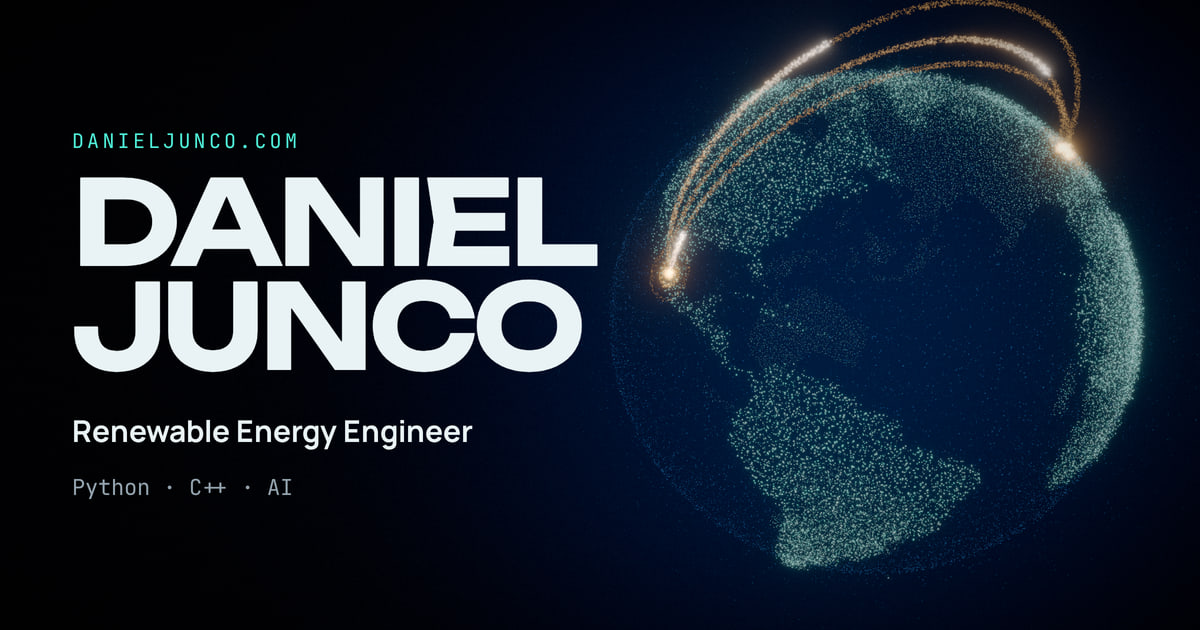
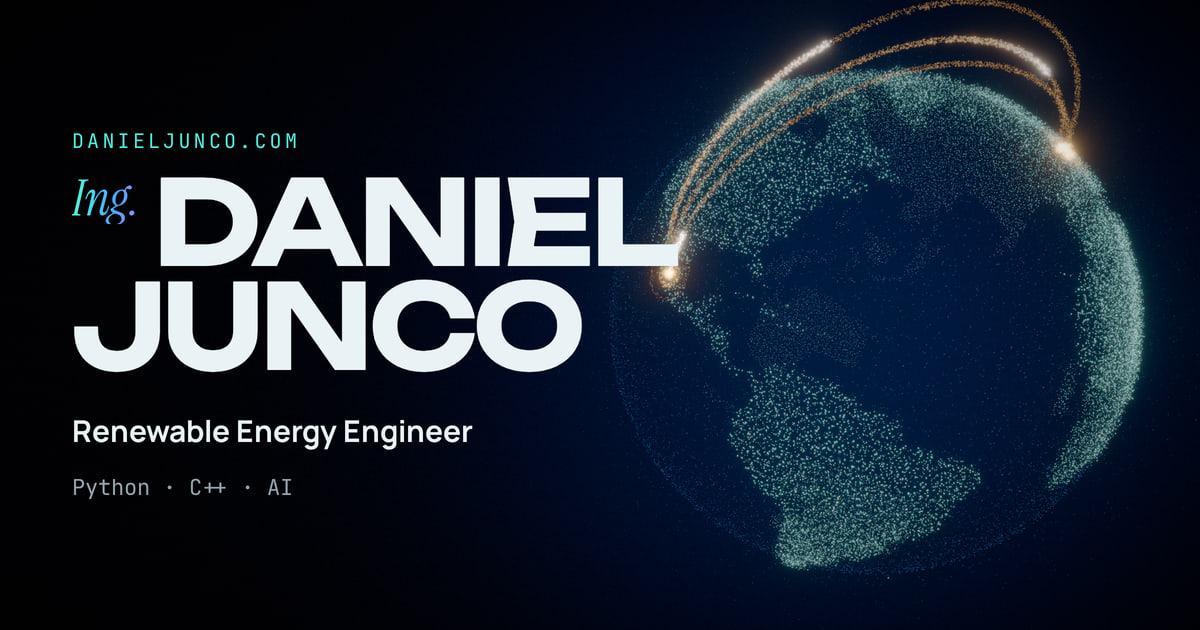
Pone «Ing.» antes del nombre en el título
El hero muestra «Ing. Daniel Junco» con «Ing.» en serif cursiva y el degradado de los títulos, y las partículas de la intro también lo forman. La pestaña del navegador, la vista previa al compartir (imagen y título) y los datos estructurados (honorificPrefix) lo incluyen en los dos idiomas.

Changed region(s): [[0.0617, 0.2714, 0.5858, 0.4222]]

diff --git a/src/data/content.ts b/src/data/content.ts
@@ -41,7 +41,7 @@ const es = {
     htmlLang: 'es-MX',
     ogLocale: 'es_MX',
     ogLocaleAlt: 'en_US',
-    title: 'Daniel Junco · Ingeniero en Energías Renovables · Python, C++ e IA',
+    title: 'Ing. Daniel Junco · Energías Renovables · Python, C++ e IA',
     description:
       'Portafolio de Kevin Daniel Aguilar Junco: ingeniero en Energías Renovables con 3 años de experiencia en Python, C++ e IA. Monitoreo del agua con IoT, visión computacional, datos geoespaciales e investigación de materiales sostenibles.',
     ogImage: '/og/og-es.jpg',
@@ -91,6 +91,8 @@ const es = {
   hero: {
     status: 'Disponible para nuevas oportunidades',
     eyebrow: 'Portafolio · 2026',
+    /** Título profesional que va antes del nombre en el hero y en la imagen para compartir. */
+    prefix: 'Ing.',
     lines: ['Daniel', 'Junco'],
     role: 'Ingeniero en Energías Renovables',
     stack: ['Python', 'C++', 'IA'],
@@ -519,7 +521,7 @@ const en: Content = {
     htmlLang: 'en',
     ogLocale: 'en_US',
     ogLocaleAlt: 'es_MX',
-    title: 'Daniel Junco · Renewable Energy Engineer · Python, C++ & AI',
+    title: 'Ing. Daniel Junco · Renewable Energy Engineer · Python, C++ & AI',
     description:
       'Portfolio of Kevin Daniel Aguilar Junco: Renewable Energy engineer with 3 years of experience in Python, C++ and AI. Water monitoring with IoT, computer vision, geospatial data and sustainable materials research.',
     ogImage: '/og/og-en.jpg',
@@ -564,6 +566,7 @@ const en: Content = {
   hero: {
     status: 'Open to new opportunities',
     eyebrow: 'Portfolio · 2026',
+    prefix: 'Ing.',
     lines: ['Daniel', 'Junco'],
     role: 'Renewable Energy Engineer',
     stack: ['Python', 'C++', 'AI'],

diff --git a/src/styles/global.css b/src/styles/global.css
@@ -1082,6 +1082,31 @@ main,
   -webkit-text-stroke: 1.5px var(--ink);
 }
 
+/* «Ing.» antes del nombre (hero e imagen para compartir): serif cursiva con el degradado
+   de los títulos, colgada a la altura de las mayúsculas. Los em son del tamaño del nombre. */
+.name-row {
+  display: flex;
+  align-items: flex-start;
+  gap: 0.09em;
+}
+
+.name-prefix {
+  margin-top: 0.06em;
+  /* La cursiva sobresale de su caja: sin este margen el degradado le cortaría la punta. */
+  padding-right: 0.06em;
+  background: linear-gradient(95deg, var(--aqua) 10%, var(--sky) 60%, var(--violet));
+  -webkit-background-clip: text;
+  background-clip: text;
+  color: transparent;
+  font-family: var(--font-serif);
+  font-size: 0.42em;
+  font-style: italic;
+  font-weight: 400;
+  line-height: 1;
+  letter-spacing: -0.01em;
+  text-transform: none;
+}
+
 .hero__line--outline .char,
 .hero__line--outline div {
   -webkit-text-stroke: inherit;
@@ -2467,6 +2492,8 @@ main,
 }
 
 .capture-og__name {
+  display: flex;
+  flex-direction: column;
   font-family: var(--font-display);
   font-size: 118px;
   font-weight: 700;
@@ -2649,6 +2676,11 @@ main,
 
   .hero__line--outline {
     -webkit-text-stroke-width: 1px;
+  }
+
+  /* En móvil el nombre es más chico: «Ing.» crece en proporción para seguir leyéndose. */
+  .hero__title .name-prefix {
+    font-size: 0.5em;
   }
 
   /* Nombre y "Portafolio · 2026" en dos líneas en lugar de un corte arbitrario. */

diff --git a/src/scripts/ui/reveal.ts b/src/scripts/ui/reveal.ts
@@ -101,16 +101,22 @@ export function initReveals(reduced: boolean) {
 /** Revela el bloque del hero después de la intro de partículas. */
 export function heroIntro(reduced: boolean) {
   const tl = gsap.timeline();
-  const name = gsap.utils.toArray<HTMLElement>('[data-hero-line]');
+  const all = gsap.utils.toArray<HTMLElement>('[data-hero-line]');
   if (reduced) {
     gsap.set('[data-hero-fade], [data-hero-line]', { autoAlpha: 1 });
     return tl;
   }
+  // «Ing.» va en cursiva: la máscara por letra le recortaría la inclinación, así que sube entero.
+  const prefix = all.filter((el) => el.classList.contains('name-prefix'));
+  const name = all.filter((el) => !prefix.includes(el));
   name.forEach((line) => {
     const split = SplitText.create(line, { type: 'chars', mask: 'chars' });
     tl.from(split.chars, { yPercent: 120, duration: 1.3, ease: 'expo.out', stagger: 0.045 }, 0.05);
   });
   tl.set(name, { autoAlpha: 1 }, 0);
+  if (prefix.length) {
+    tl.fromTo(prefix, { autoAlpha: 0, yPercent: 70 }, { autoAlpha: 1, yPercent: 0, duration: 1.2, ease: 'expo.out' }, 0.05);
+  }
   tl.fromTo(
     '[data-hero-fade]',
     { autoAlpha: 0, y: 28 },

diff --git a/src/scripts/main.ts b/src/scripts/main.ts
@@ -33,7 +33,8 @@ function heroTextLines(): TextLine[] {
     return {
       text,
       rect: { left: r.left, top: r.top, width: r.width, height: r.height },
-      font: `${cs.fontWeight} ${cs.fontSize} ${cs.fontFamily}`,
+      // El estilo va primero: «Ing.» es cursiva y el canvas debe dibujarla igual.
+      font: `${cs.fontStyle} ${cs.fontWeight} ${cs.fontSize} ${cs.fontFamily}`,
       letterSpacing: cs.letterSpacing,
     };
   });
@@ -62,6 +63,7 @@ async function boot() {
     Promise.all([
       document.fonts.load('700 100px "Unbounded Variable"'),
       document.fonts.load('700 100px "Unbounded Outline"'),
+      document.fonts.load('italic 400 100px "Instrument Serif"'),
       document.fonts.ready,
     ]),
     wait(3000),
